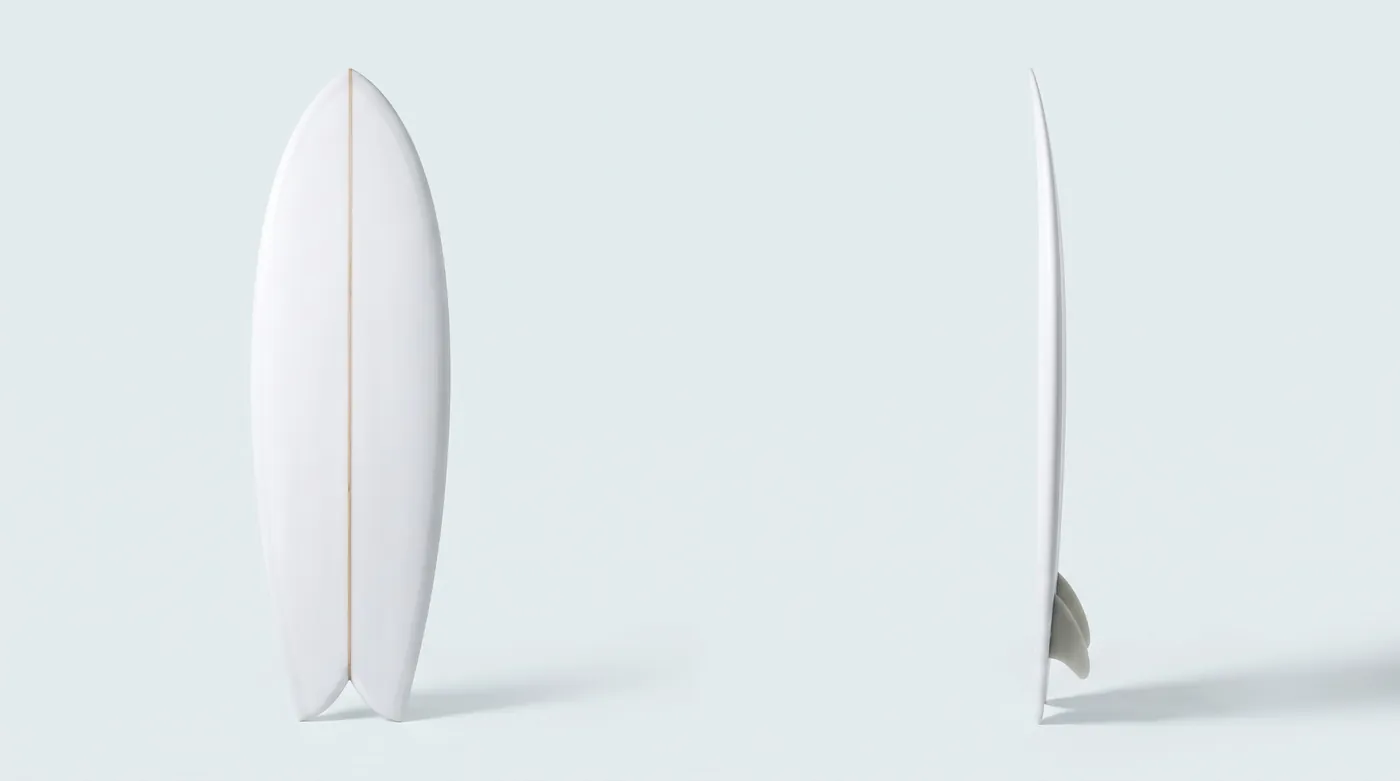
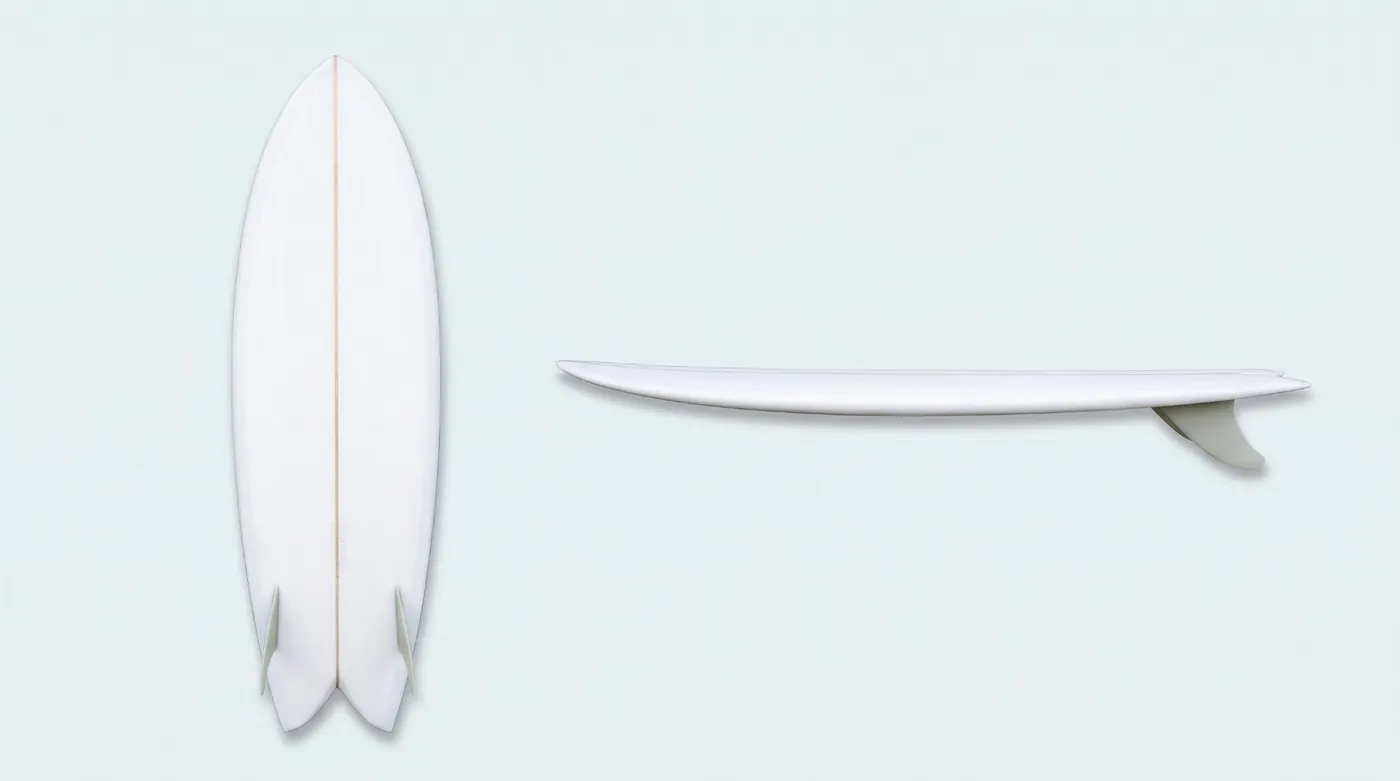
SURF DNA: fish deitada, no padrão das outras ilustrações
Claude-Session: https://claude.ai/code/session_01EmBLSYdyqwezRsh7Xdx58F

Changed region(s): [[0.1843, 0.0922, 0.3993, 0.9526], [0.3993, 0.1844, 1.0, 0.9526]]

diff --git a/docs/board/imagens.md b/docs/board/imagens.md
@@ -14,7 +14,7 @@ O app só mostra a ilustração dos tipos listados em `TIMG`; tipo sem imagem ca
 | Longboard performance | longp | ok |
 | Mini-malibu / funboard | minimal | ok (refazer mais larga, se der) |
 | Evolution / allround | evo | ok |
-| Fish | fish | ok (refazer deitada, como as outras) |
+| Fish | fish | ok (deitada; a v1 em pé está no backup) |
 | Groveler | grov | ok |
 | Biquilha moderna | twin | ok (refazer deitada, como as outras) |
 | Softboard performance | softp | ok |
@@ -29,7 +29,7 @@ Os originais do Gemini (2000 px) estão em `docs/board/imagens-originais/`, incl
 - 2/nov/2026: gun com o plug do leash retocado (original em `imagens-originais/gun.jpg`).
 
 ## Próxima sessão (pendente)
-2. Se quiser, refazer fish e biquilha deitadas.
+2. Se quiser, refazer a biquilha deitada.
 3. Variantes de rabeta completas. Opcional: refazer longp-round com quilhas claras (vieram pretas).
 4. Opcional: refazer a mini-malibu mais larga (ficou parecida com a mid-length).
 5. Salvar em `surf/img/tipos/`, incluir a chave em `TIMG` e mandar para revisão do Gustavo.
